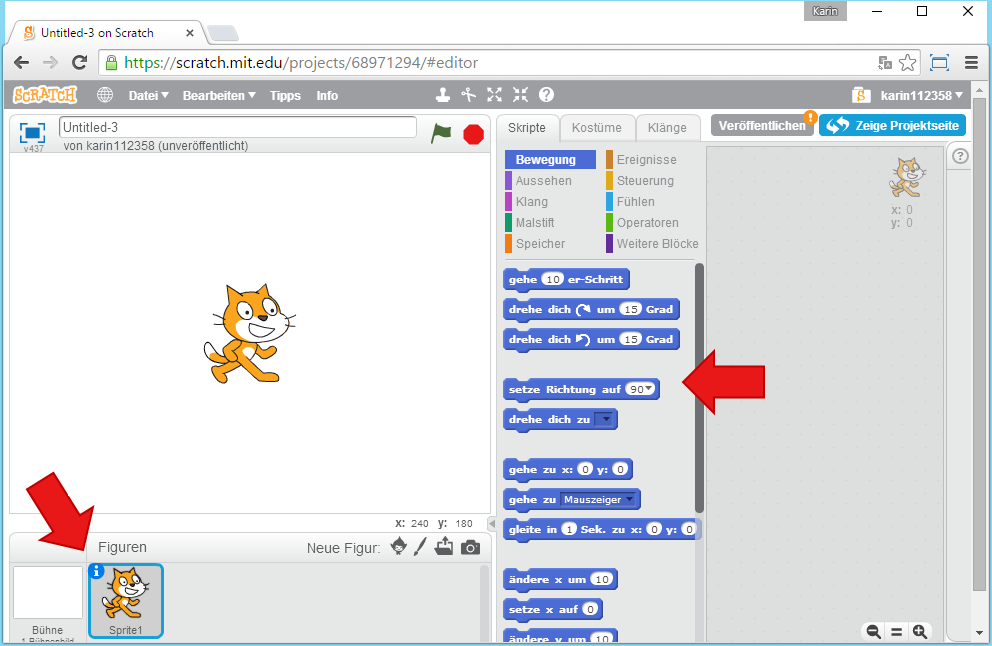
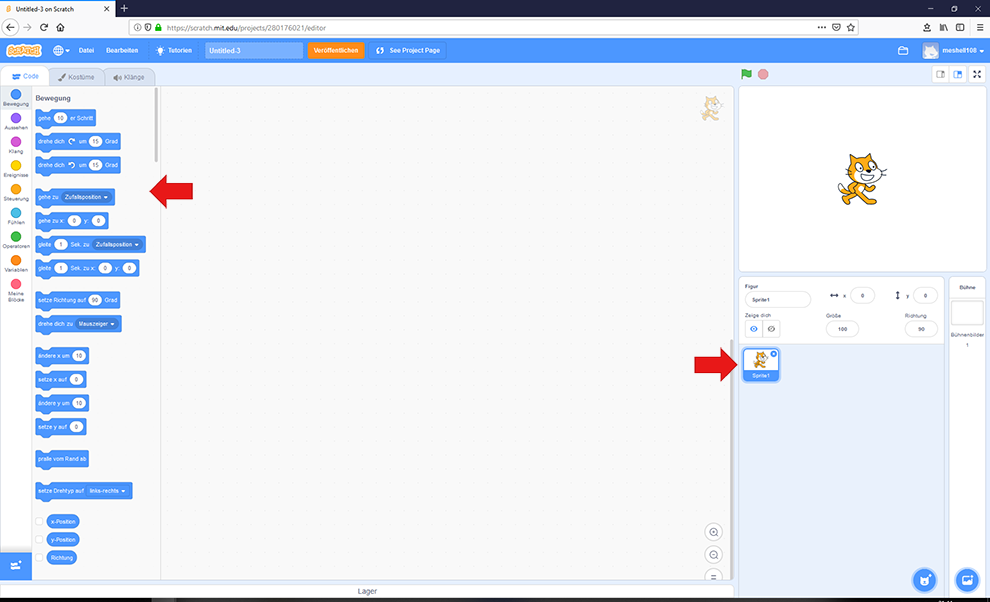
Updated "scratch erste Schritte" to scratch 3.

diff --git a/trainingsanleitungen/scratch/scratch-erste-schritte.md b/trainingsanleitungen/scratch/scratch-erste-schritte.md
@@ -22,31 +22,32 @@ In dieser Übung legst du ein neues Projekt an und lässt Scratchy, die Katze, a
 
 ## Die Katze Scratchy läuft herum
 
-1. Du findest alle Figuren des Projekts im linken unteren Bereich. Im Moment gibt es hier nur Scratchy, die Katze. Wenn du sie auswählst, kannst du bestimmen, was sie machen soll. Dazu gibt es in der Mitte verschiedene Blöcke, mit denen du sie steuern kannst.
+1. Du findest alle Figuren des Projekts im rechten unteren Bereich. Im Moment gibt es hier nur Scratchy, die Katze. Wenn du sie auswählst, kannst du bestimmen, was sie machen soll. Dazu gibt es in links verschiedene Blöcke, mit denen du sie steuern kannst.
 ![Erste Schritte in Scratch](scratch-erste-schritte/neues-scratch-projekt.png)
 
 2. Lass Scratchy ein paar Schritte laufen. Wähle dazu den Block *gehe 10er Schritt* und ziehe ihn nach rechts in den leeren grauen Bereich. Wenn du auf den blauen Block klickst, führt Scratchy den Befehl aus. Sie läuft 10 Schritte. Klickst du nochmal, läuft wie wieder 10 Schritte. Den Wert im weißen Feld kannst du verändern, um Scratchy mehr Schritte gehen zu lassen.
 ![Erste Schritte von Scratchy](scratch-erste-schritte/erste-schritte-scratchy.png)
 
 3. ![Mehre Blöcke kombinieren](scratch-erste-schritte/scratchy-geht-im-kreis.png){: .right}
-Du kannst auch mehrere Blöcke kombinieren, um Scratchy mehrere Aufgaben ausführen zu lassen. Lass Scratchy zuerst 100 Schritte laufen, dann warte eine Sekunde und dann drehe sie um 90 Grad. Wenn du das viermal wiederholst, läuft Scratchy im Kreis. Den Befehl, eine Sekunde zu warten, findest du bei den gelben Blöcken *Steuerung*. 
+Du kannst auch mehrere Blöcke kombinieren, um Scratchy mehrere Aufgaben ausführen zu lassen. Lass Scratchy zuerst 100 Schritte laufen, dann warte eine Sekunde und dann drehe sie um 90 Grad. Wenn du das viermal wiederholst, läuft Scratchy im Kreis. Den Befehl, eine Sekunde zu warten, findest du bei den gelben Blöcken *Steuerung*.
 Klicke den ganzen entstanden Block an, um zuzusehen, wie Scratchy deine Befehle ausführt.
 
 ## Scratchy malt
 
-1. ![Scratchy malt](scratch-erste-schritte/scratchy-malt.png){: .right}
-Scratchy kann den Weg, den sie läuft, auch aufmalen. Verwende dazu die grünen Blöcke im Bereich *Malstift*. Schalte den Stift ein, bevor sie losläuft, wähle eine Farbe und schalte den Stift wieder aus, wenn sie angekommen ist. Wenn du dann den ganzen Block angklickst, malt Scratchy ein Quadrat.
+1.Scratchy kann den Weg, den sie läuft, auch aufmalen. Füge dazu zuerst die Malstifte zu den Blöcken indem du auf *Erweiterungen hinzufügen* ganz unten links drückst und dann *Malstifte* auswählst. Jetzt kannst du die *Malstift* im Blöcke Bereich verwenden um zu malen. Schalte den Stift ein, bevor sie losläuft, wähle eine Farbe und schalte den Stift wieder aus, wenn sie angekommen ist. Wenn du dann den ganzen Block angklickst, malt Scratchy ein Quadrat.
+
+![Scratchy malt](scratch-erste-schritte/scratchy-malt.png)
 
 2. ![Scratchy malt mehrere Quadrate](scratch-erste-schritte/mehrere-quadrate.png){: .right}
 Du kannst Scratchy mit der Maus an eine andere Stelle setzen und den ganzen Block erneut anklicken, dann malt sie ein weiteres Quadrat an eine andere Stelle.
 
 3. ![Wische Malspuren weg](scratch-erste-schritte/wische-malspuren-weg.png){: .right}
-Mit dem Block *wische Malspuren weg*, kannst du alles wieder löschen.
+Mit dem Block *Alles löschen*, kannst du alles wieder löschen.
 
 4. ![Ereignisse](scratch-erste-schritte/ereignisse.png){: .right}
-Damit du nicht immer die Blöcke anklicken musst, kannst du definieren, wann ein Block ausgelöst werden soll. 
+Damit du nicht immer die Blöcke anklicken musst, kannst du definieren, wann ein Block ausgelöst werden soll.
 Du findest diese Auslöser im Bereich *Ereignisse*. Im Beispiel rechts siehst du, wie du einen Block ausführen kannst, wenn eine Taste auf der Tastatur gedrückt wird. Wenn die Taste m (wie malen) gedrückt wird, soll Scratchy das Quadrat malen. Wenn die Taste l (wie löschen) gedrückt wird, sollen alle Malspuren wieder weggelöscht werden.
 
 ## Ausprobieren
 
-Du kannst das fertige Projekt unter [https://scratch.mit.edu/projects/68975126/](https://scratch.mit.edu/projects/68975126/){:target="_blank"} ausprobieren.
+Du kannst das fertige Projekt unter [https://scratch.mit.edu/projects/280176021](https://scratch.mit.edu/projects/280176021/){:target="_blank"} ausprobieren.
